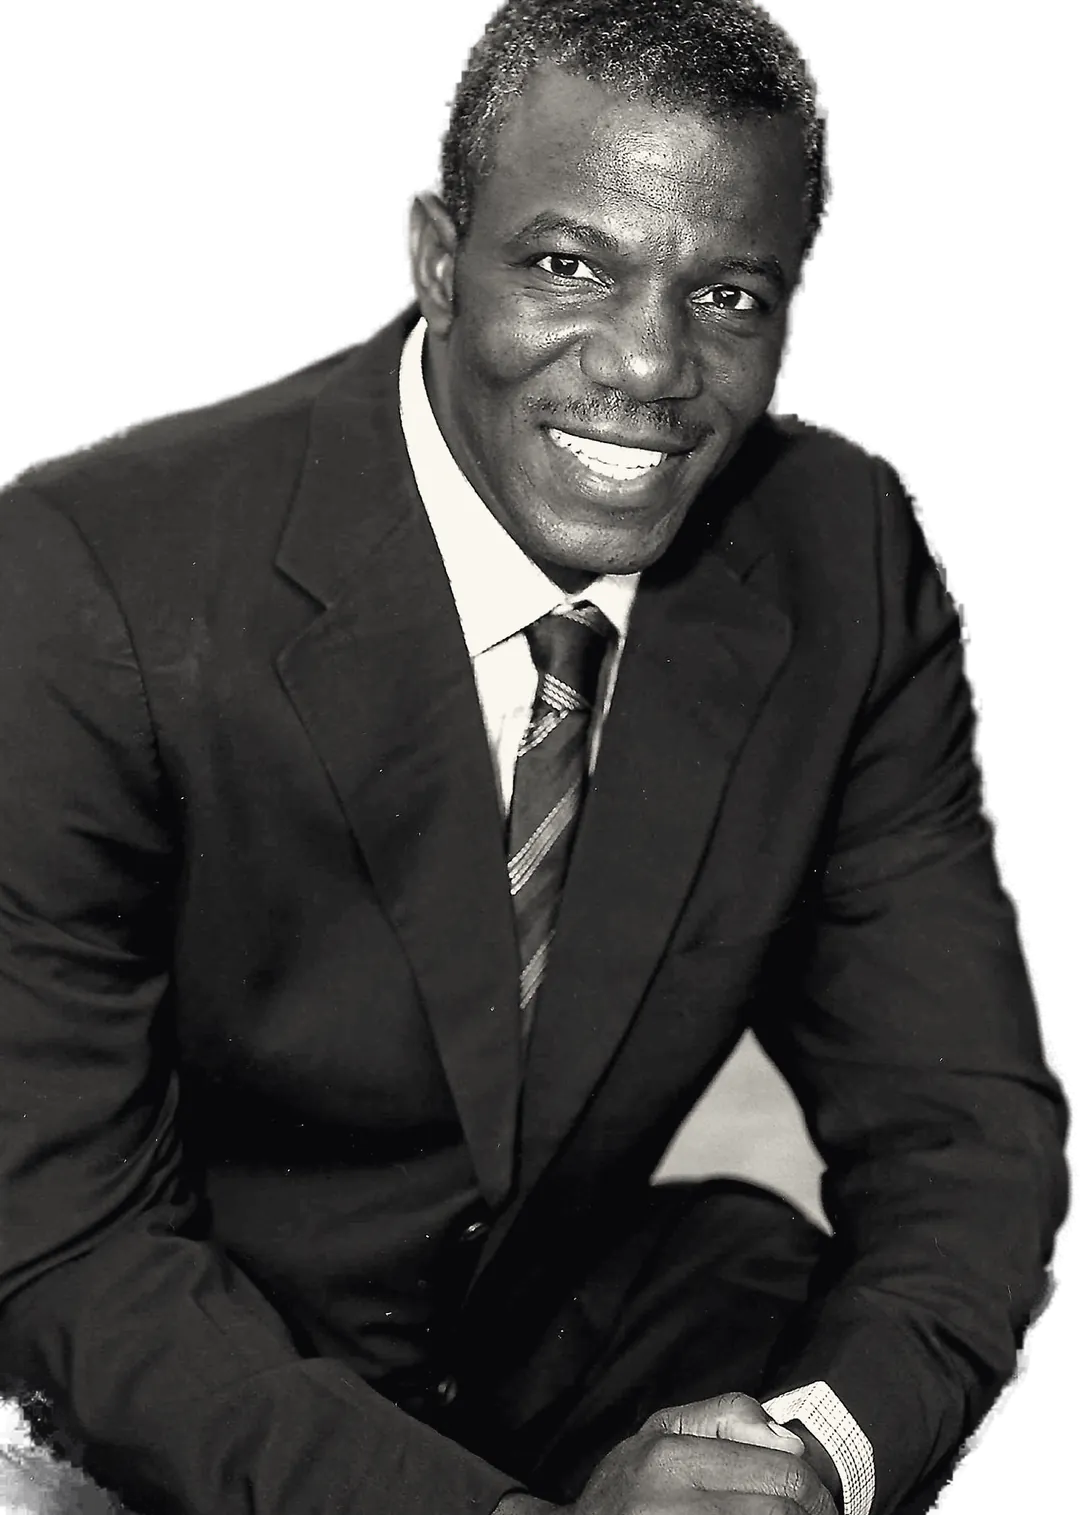
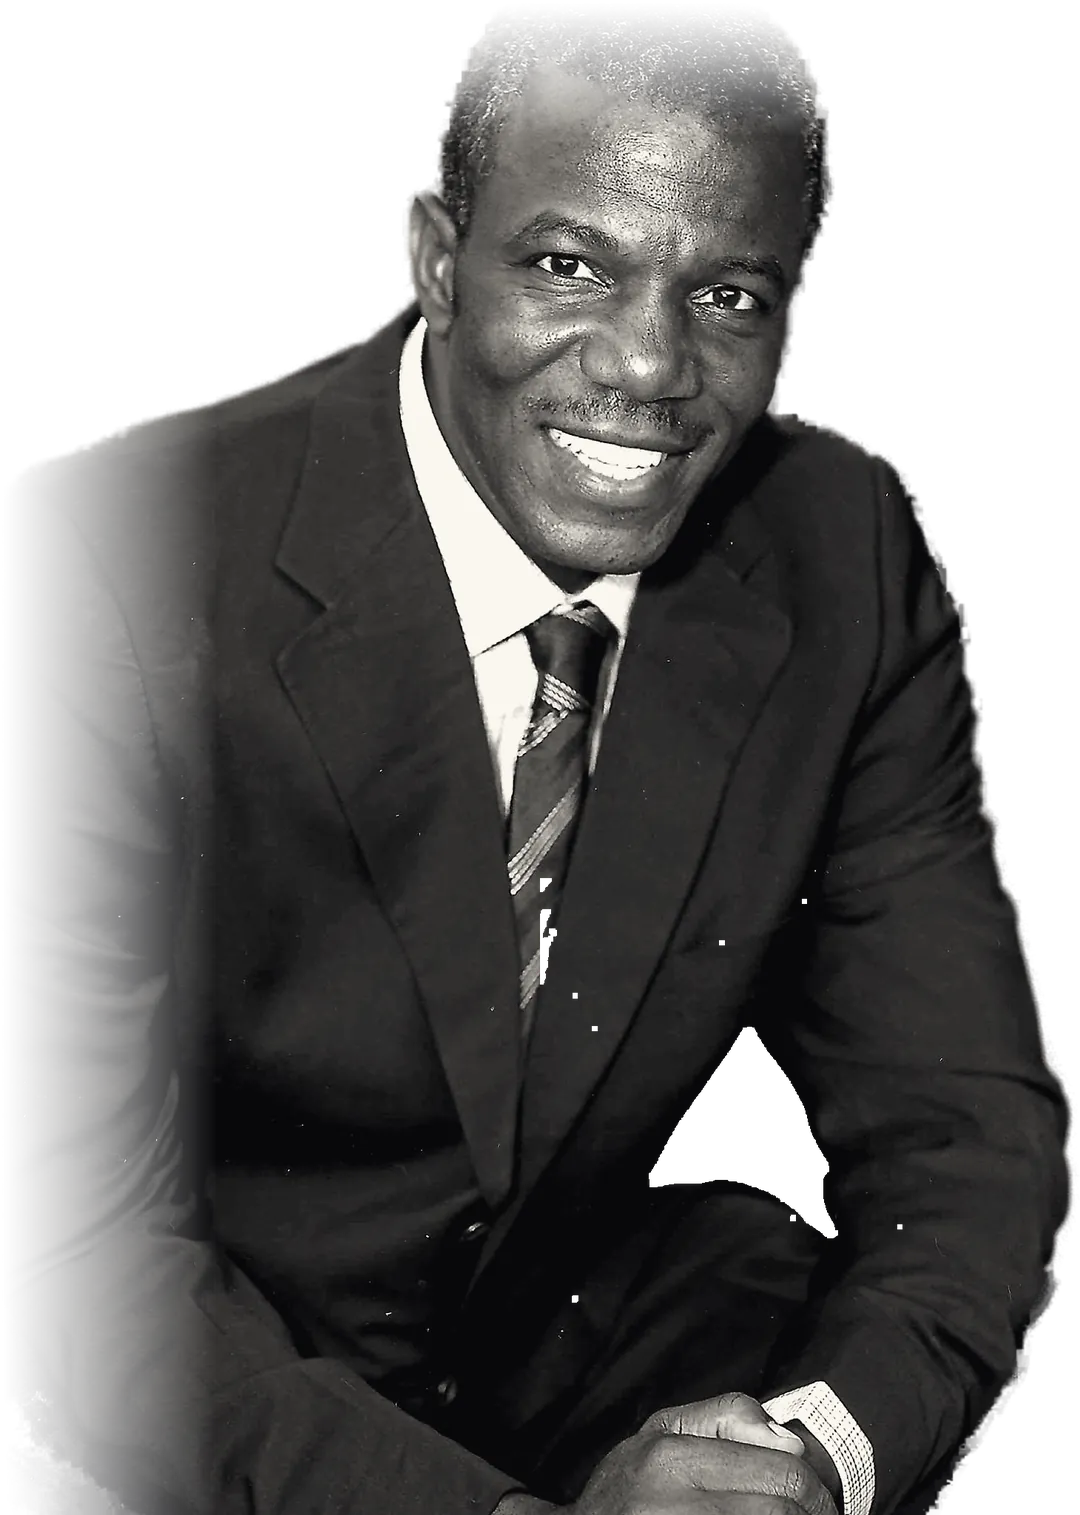
Mobile hero: 'JACOB' types in a loop with caret, sits so letter tops clear his head; portrait fades softly at top/left, leftover backdrop removed
Claude-Session: https://claude.ai/code/session_01EWQzoRbBESKLoLZM4GKCC3

diff --git a/src/pages/Home.tsx b/src/pages/Home.tsx
@@ -10,6 +10,79 @@ import type { Initiative } from '../lib/types'
 
 const ease = [0.22, 1, 0.36, 1] as const
 
+/* -------------------------------------------------------------- HeroName
+ * Phones: "JACOB" types itself letter by letter, holds, erases, repeats (with a red caret).
+ * Desktop: letters close in from wide spacing once. Width never changes, so nothing jumps.
+ */
+const FIRST = 'JACOB'
+function useIsPhone() {
+  const [phone, setPhone] = useState(() => typeof window !== 'undefined' && window.matchMedia('(max-width: 767px)').matches)
+  useEffect(() => {
+    const mq = window.matchMedia('(max-width: 767px)')
+    const on = () => setPhone(mq.matches)
+    mq.addEventListener('change', on)
+    return () => mq.removeEventListener('change', on)
+  }, [])
+  return phone
+}
+
+function HeroName() {
+  const reduce = useReducedMotion()
+  const phone = useIsPhone()
+  const typing = phone && !reduce
+  const [shown, setShown] = useState(typing ? 0 : FIRST.length)
+
+  useEffect(() => {
+    if (!typing) {
+      setShown(FIRST.length)
+      return
+    }
+    let n = 0
+    let dir: 1 | -1 = 1
+    let t = 0
+    const step = () => {
+      n += dir
+      setShown(n)
+      let wait = dir === 1 ? 230 : 110
+      if (dir === 1 && n === FIRST.length) {
+        dir = -1
+        wait = 2600 // hold the full name
+      } else if (dir === -1 && n === 0) {
+        dir = 1
+        wait = 650
+      }
+      t = window.setTimeout(step, wait)
+    }
+    t = window.setTimeout(step, 1100) // start after the letterbox opens
+    return () => window.clearTimeout(t)
+  }, [typing])
+
+  const letters = FIRST.split('')
+  const word = (
+    <span className="relative font-display font-light uppercase leading-none text-ivory/95 text-[35vw] md:text-[24vw] whitespace-nowrap">
+      {letters.map((ch, i) => (
+        <span key={i} className="relative inline-block" style={{ opacity: i < shown ? 1 : 0, transition: typing ? 'opacity 120ms linear' : undefined }}>
+          {ch}
+          {typing && i === shown - 1 && <span className="hero-caret absolute -right-[0.04em] top-[0.12em] bottom-[0.1em] w-[3px] bg-gold" />}
+        </span>
+      ))}
+      {typing && shown === 0 && <span className="hero-caret absolute left-[0.02em] top-[0.12em] bottom-[0.1em] w-[3px] bg-gold" />}
+    </span>
+  )
+
+  return (
+    <motion.div
+      aria-hidden
+      className="absolute inset-x-0 top-[23%] md:top-[30%] z-[1] flex justify-center pointer-events-none select-none"
+      initial={reduce || phone ? false : { opacity: 0, letterSpacing: '0.35em' }}
+      animate={reduce || phone ? undefined : { opacity: 1, letterSpacing: '0.04em' }}
+      transition={{ duration: 2.2, delay: 0.5, ease }}
+    >
+      {word}
+    </motion.div>
+  )
+}
+
 /* ---------------------------------------------------------------- Hero
  * Editorial portrait poster: name set huge BEHIND the figure, surname in gold italic IN FRONT,
  * a fine diagonal rule, small spaced captions. Real photo (cut out, black-and-white).
@@ -38,16 +111,8 @@ function Hero() {
         <video className="absolute inset-0 h-full w-full object-cover opacity-25 mix-blend-luminosity" src={video} autoPlay muted loop playsInline preload="none" aria-hidden />
       )}
 
-      {/* 1 · First name, set huge, BEHIND the figure */}
-      <motion.div
-        aria-hidden
-        className="absolute inset-x-0 top-[23%] md:top-[30%] z-[1] flex justify-center pointer-events-none select-none"
-        initial={reduce ? false : { opacity: 0, letterSpacing: '0.35em' }}
-        animate={{ opacity: 1, letterSpacing: '0.04em' }}
-        transition={{ duration: 2.2, delay: 0.5, ease }}
-      >
-        <span className="font-display font-light uppercase leading-none text-ivory/95 text-[35vw] md:text-[24vw] whitespace-nowrap">Jacob</span>
-      </motion.div>
+      {/* 1 · First name, set huge, BEHIND the figure (types itself in a loop on phones) */}
+      <HeroName />
 
       {/* 2 · The figure */}
       <motion.img
@@ -57,13 +122,8 @@ function Hero() {
         alt="Dr. Jacob Familoni"
         fetchPriority="high"
         decoding="async"
-        className="absolute bottom-0 left-1/2 z-[2] h-[78svh] md:h-[86svh] w-auto max-w-none -translate-x-[50%] md:-translate-x-[38%] object-contain object-bottom"
-        style={{
-          aspectRatio: String(heroMedia.figureRatio),
-          // soften the original photo's straight left edge (sleeve) into the studio backdrop
-          WebkitMaskImage: 'linear-gradient(to right, transparent 0%, #000 22%, #000 100%)',
-          maskImage: 'linear-gradient(to right, transparent 0%, #000 22%, #000 100%)',
-        }}
+        className="absolute bottom-0 left-1/2 z-[2] h-[70svh] md:h-[86svh] w-auto max-w-none -translate-x-[50%] md:-translate-x-[38%] object-contain object-bottom"
+        style={{ aspectRatio: String(heroMedia.figureRatio) }}
         initial={reduce ? false : { opacity: 0, y: 40 }}
         animate={{ opacity: 1, y: 0 }}
         transition={{ duration: 1.6, delay: 0.25, ease }}
@@ -85,8 +145,8 @@ function Hero() {
       </motion.svg>
 
       {/* 4 · Caption block, top left */}
-      <motion.div className="absolute left-5 md:left-[max(2rem,calc((100vw-72rem)/2+2rem))] top-24 md:top-[18%] z-[5] max-w-[13rem]" {...fade(1.1, 0)}>
-        <span className="block h-px w-6 bg-gold/80 rotate-[-40deg] origin-left mb-4" />
+      <motion.div className="absolute left-5 md:left-[max(2rem,calc((100vw-72rem)/2+2rem))] top-[4.6rem] md:top-[18%] z-[5] max-w-[13rem]" {...fade(1.1, 0)}>
+        <span className="hidden md:block h-px w-6 bg-gold/80 rotate-[-40deg] origin-left mb-4" />
         <p className="text-[0.62rem] leading-[1.9] tracking-[0.32em] uppercase text-ivory-2">
           A Nigerian
           <br />

diff --git a/src/index.css b/src/index.css
@@ -153,6 +153,8 @@
   @keyframes flagwave { 0%, 100% { transform: skewY(-1.2deg) translateY(0); } 50% { transform: skewY(1.2deg) translateY(-1%); } }
   .flag-canton { animation: cantonfade 7.5s ease-in-out infinite; }
   @keyframes cantonfade { 0%, 100% { opacity: 0.25; } 40%, 70% { opacity: 0.6; } }
+  .hero-caret { animation: caret 0.9s steps(1) infinite; }
+  @keyframes caret { 50% { opacity: 0; } }
   .marquee { display: flex; width: max-content; animation: marquee 48s linear infinite; }
   @keyframes marquee { to { transform: translateX(-50%); } }
   .kenburns { animation: kenburns 18s var(--ease-cine) both; transform-origin: 50% 30%; }
